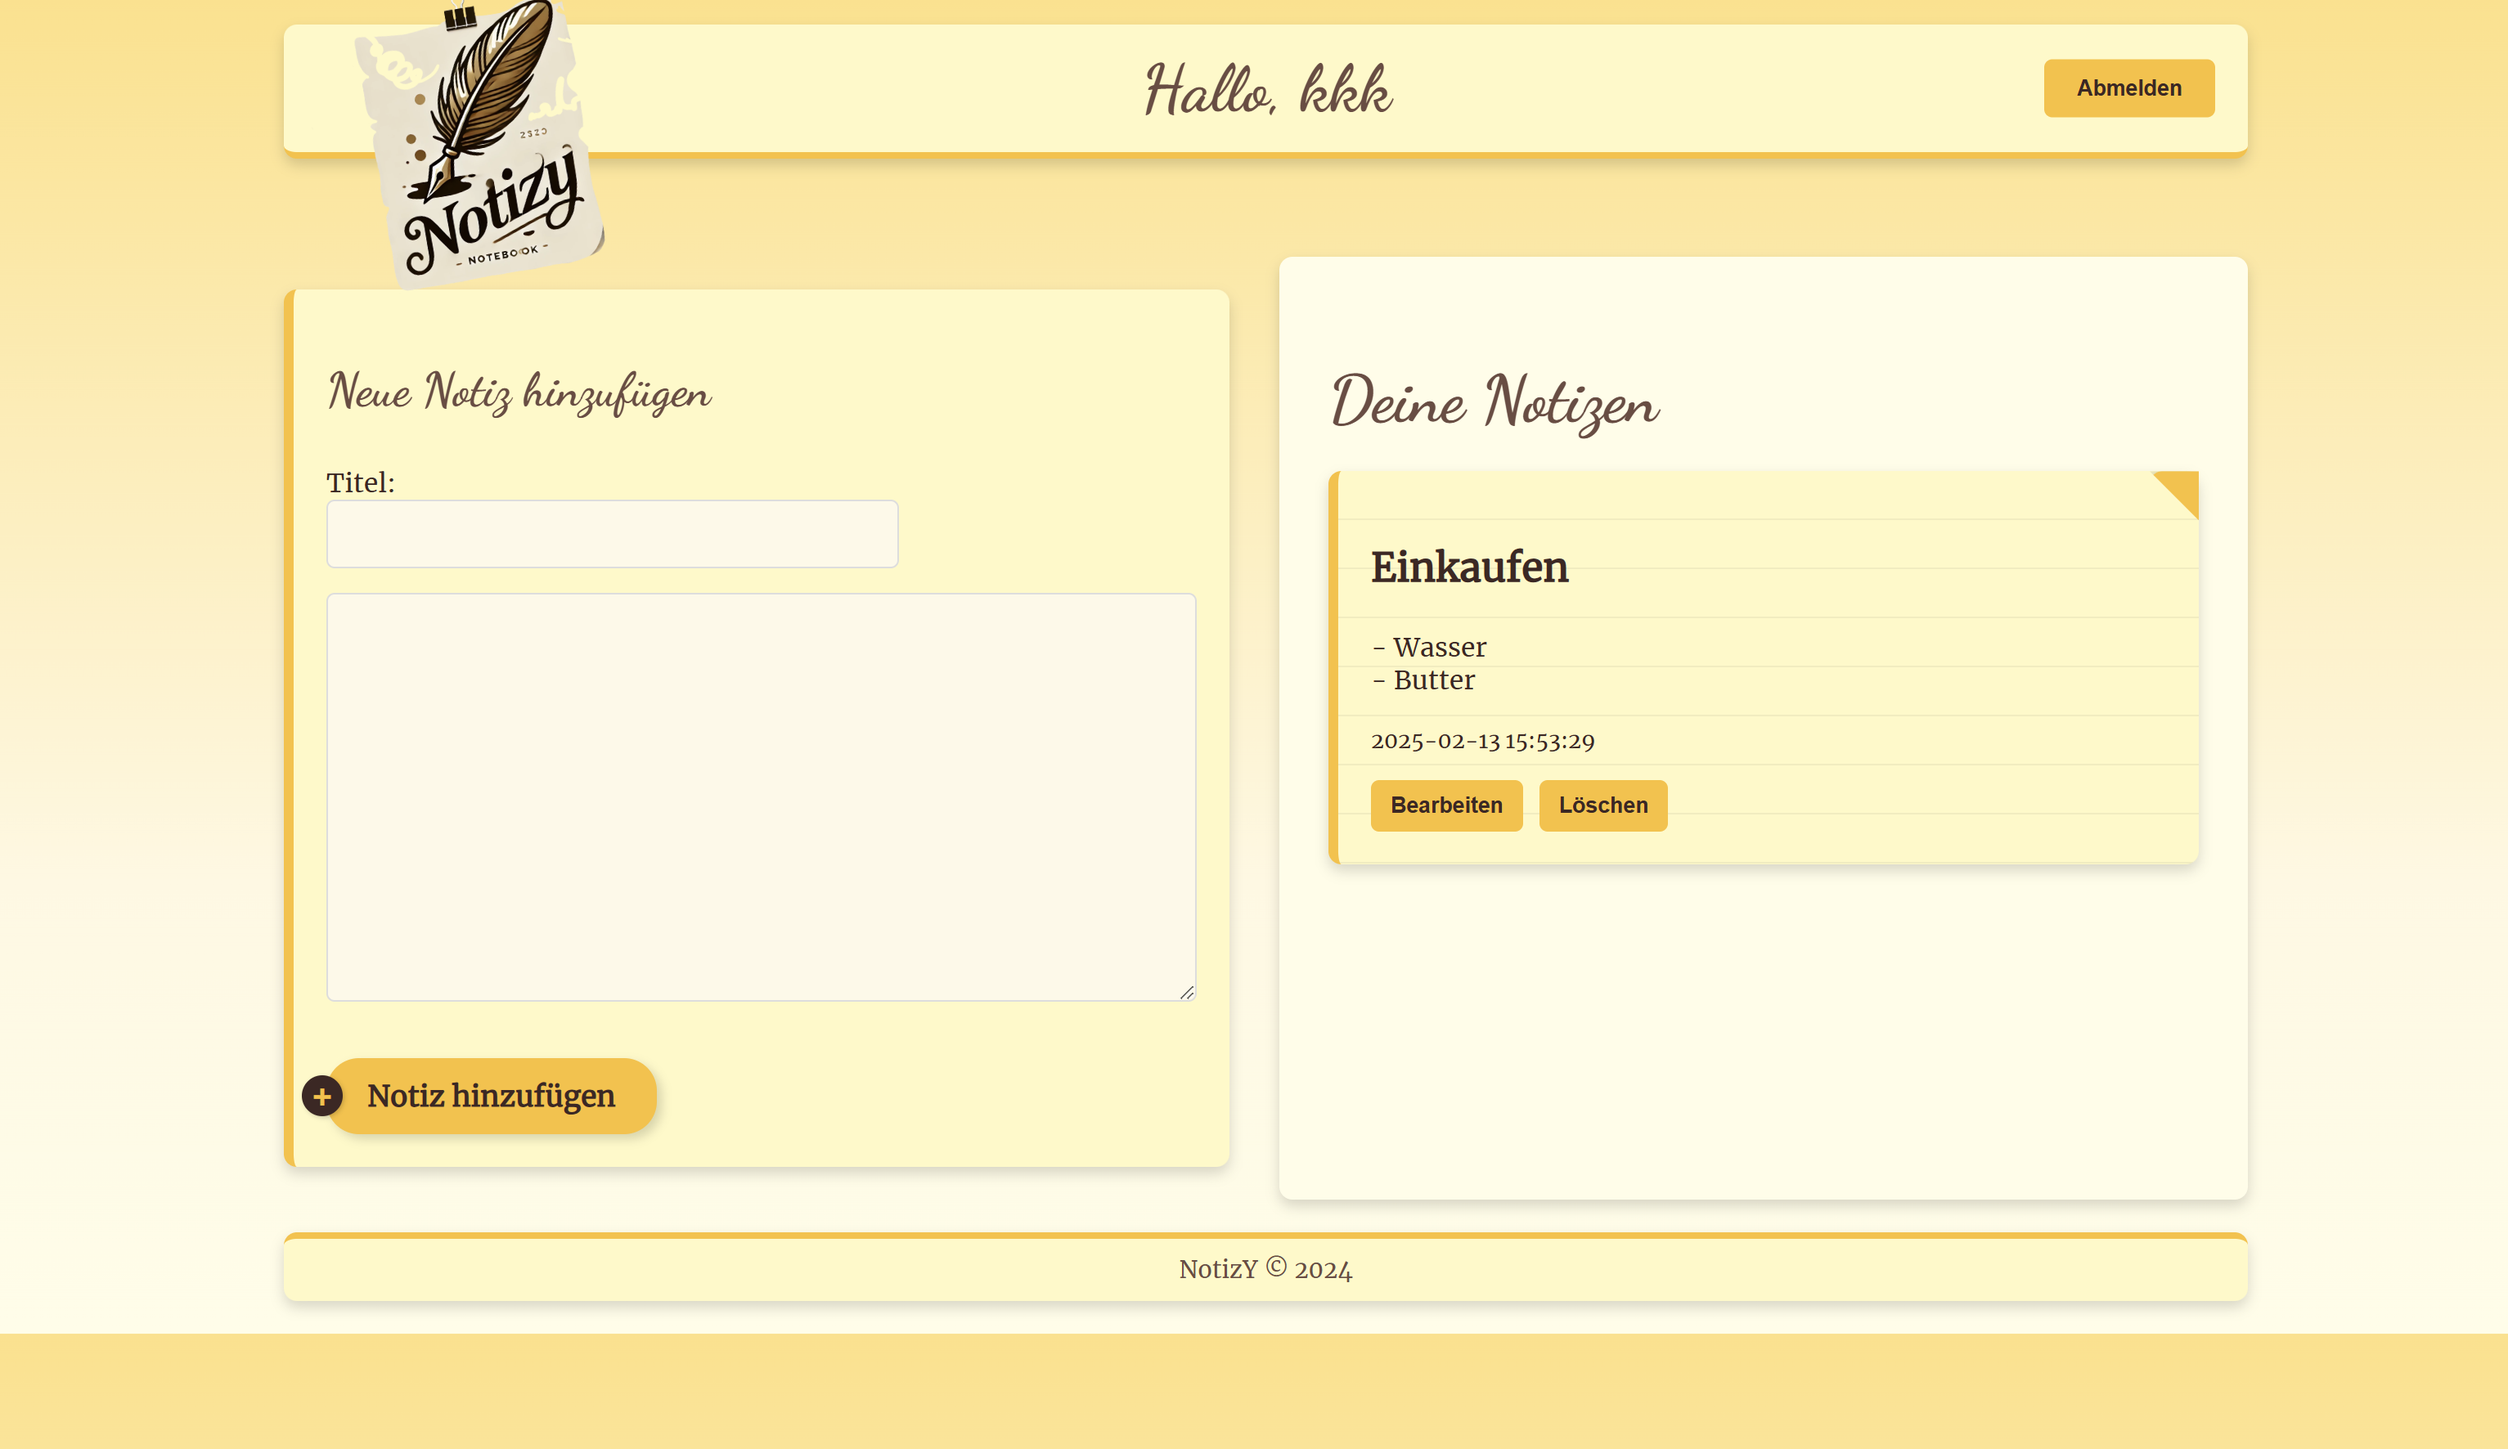
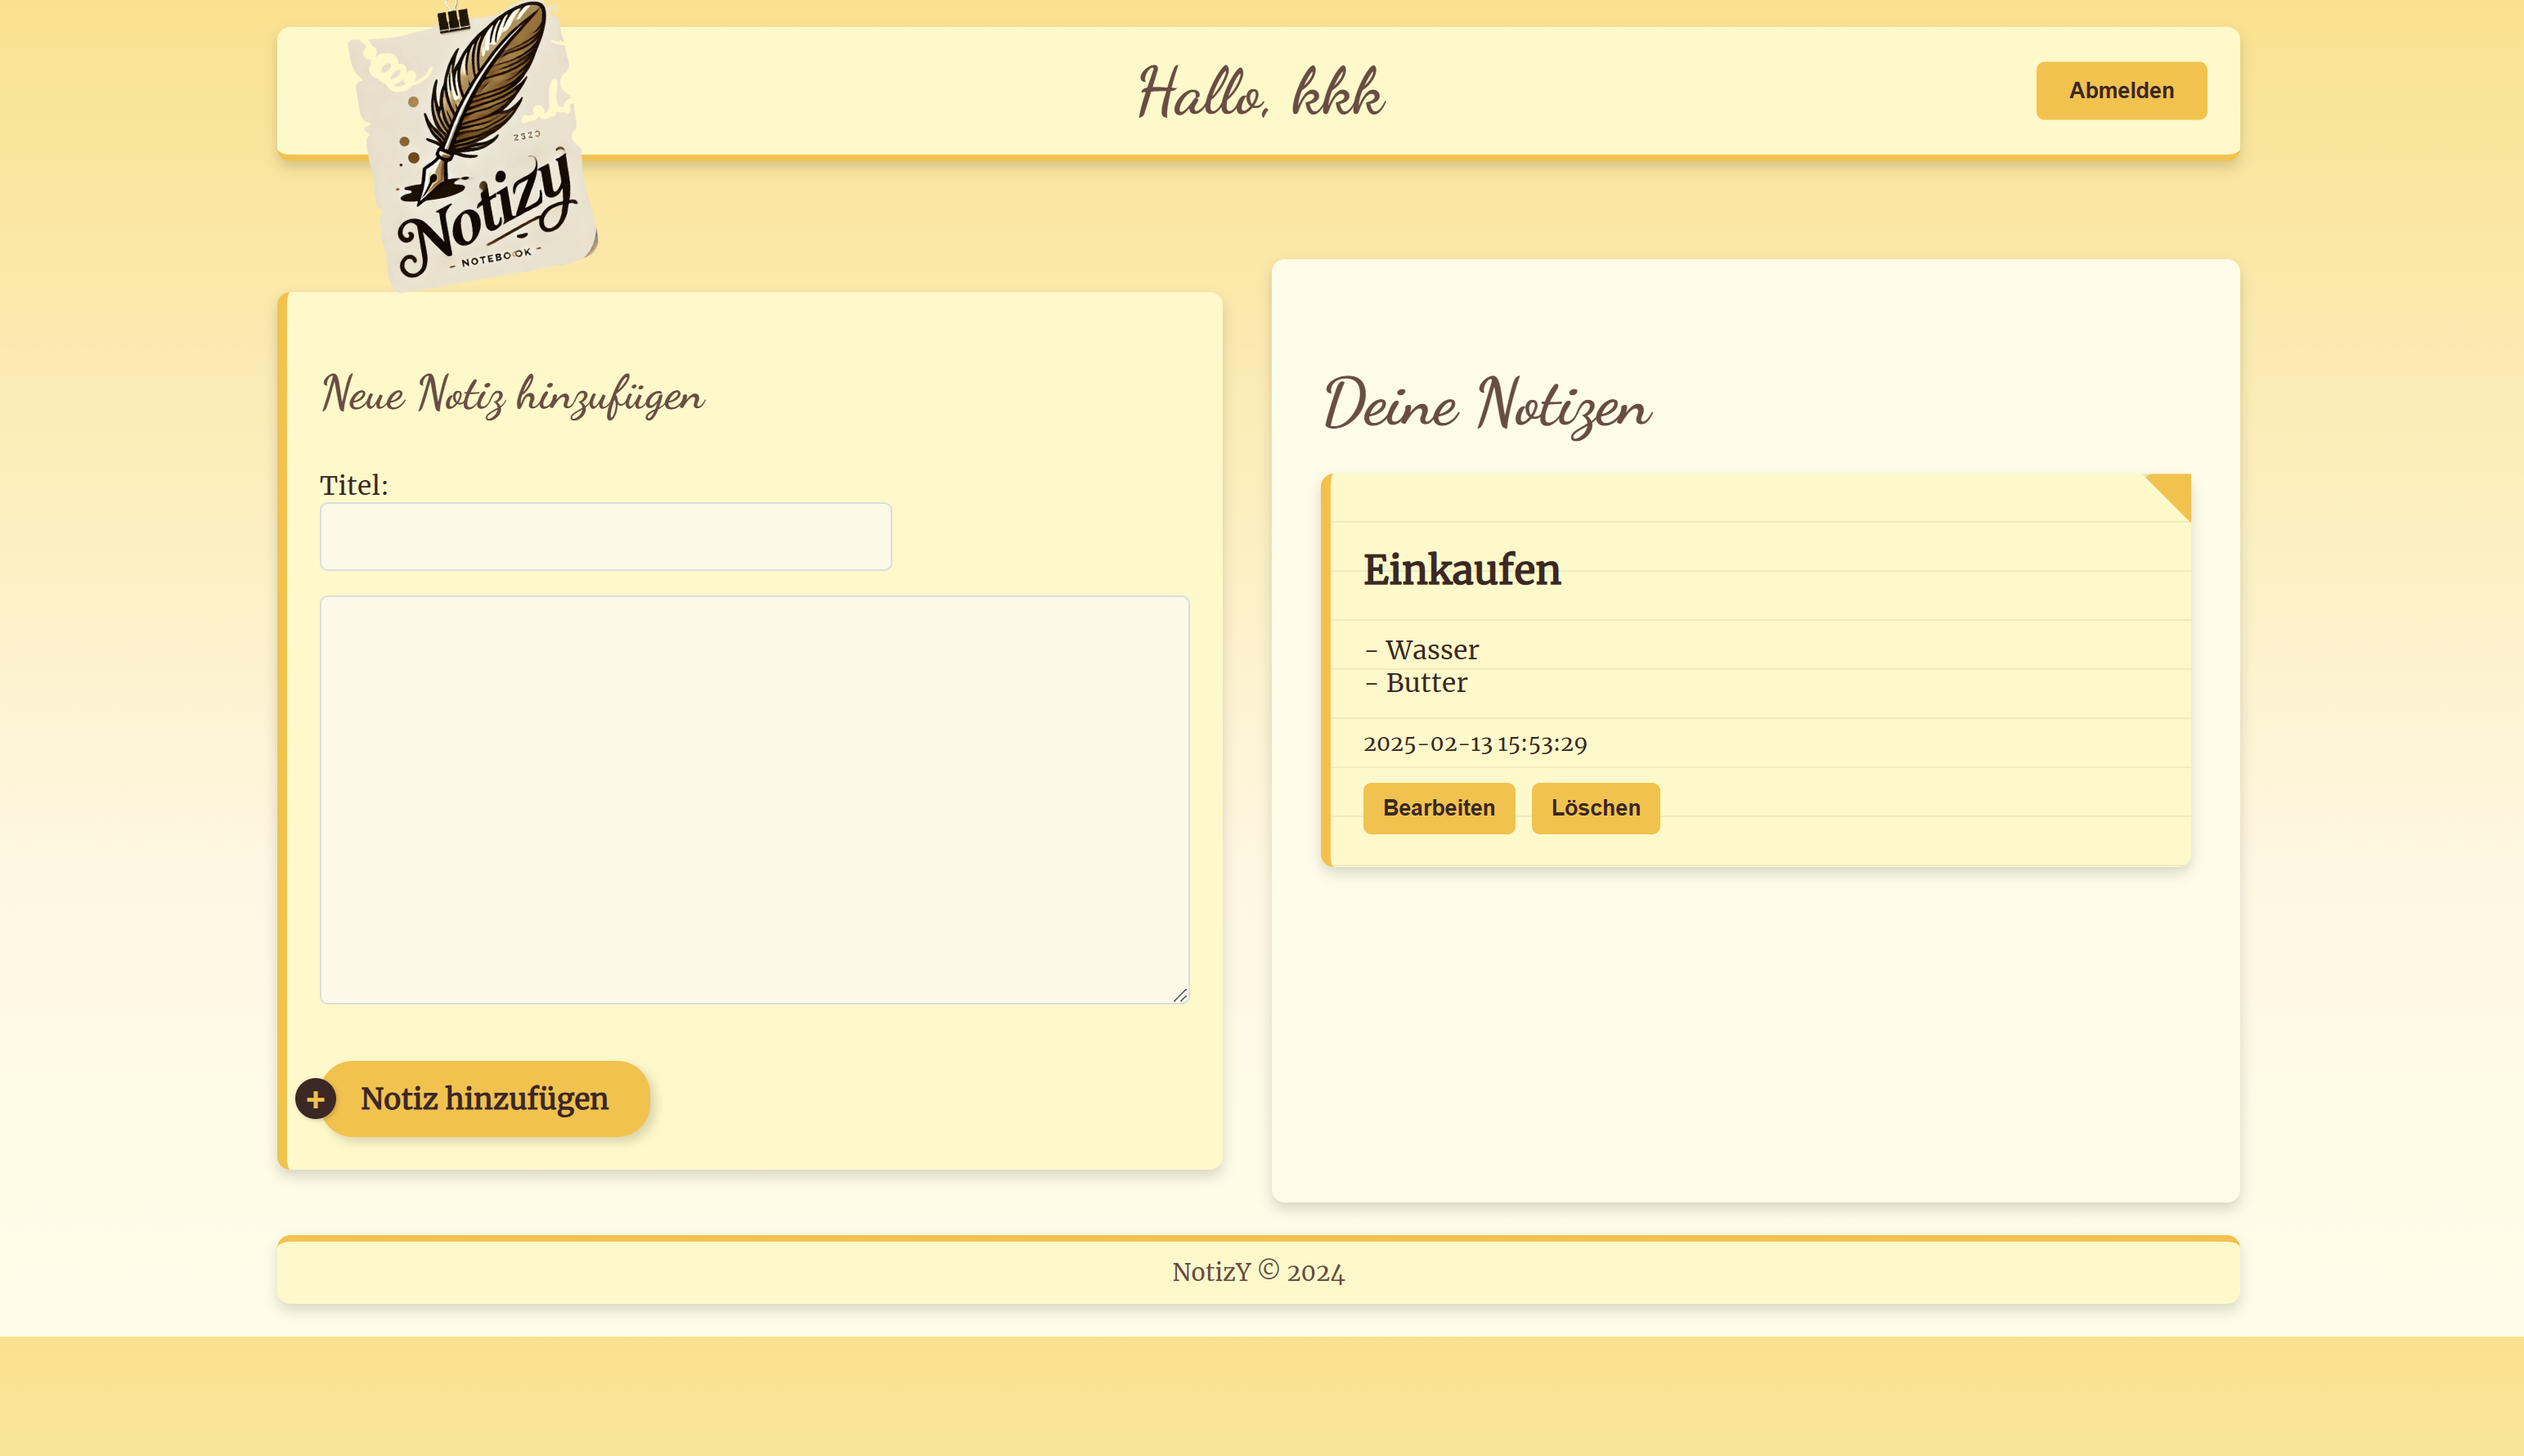
railway

diff --git a/wwwroot/css/style.css b/wwwroot/css/style.css
@@ -73,7 +73,7 @@ header {
 
 .project-container {
     display: grid;
-    grid-template-columns: repeat(auto-fit, minmax(50%, 1fr));
+    grid-template-columns: repeat(auto-fit, minmax(45%, 1fr));
     gap: 2rem;
     max-width: 1200px;
     margin: 0 auto;
